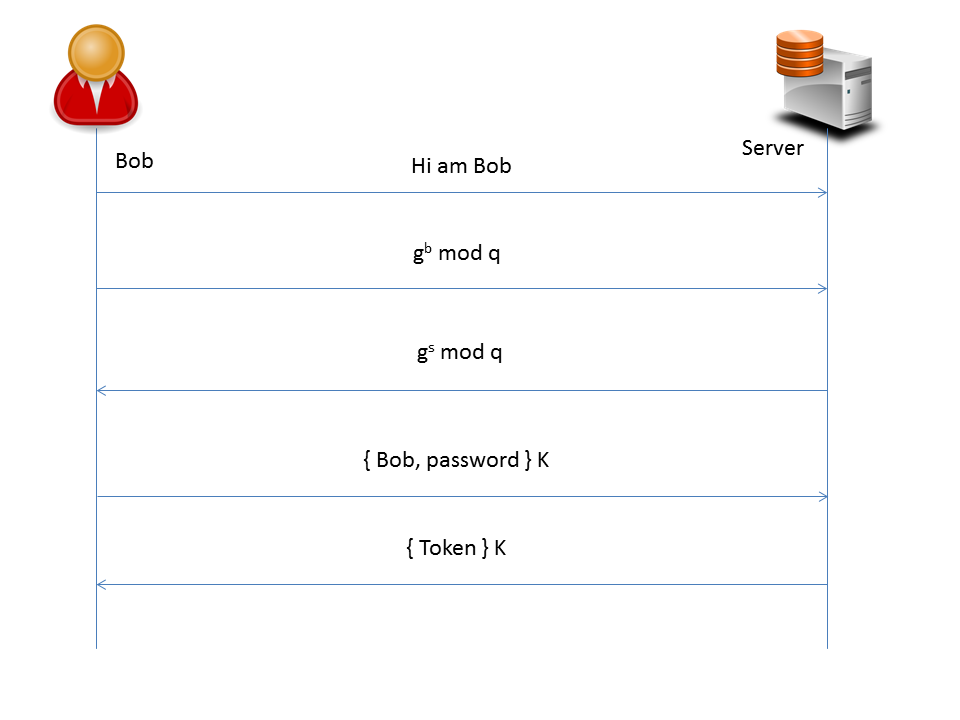
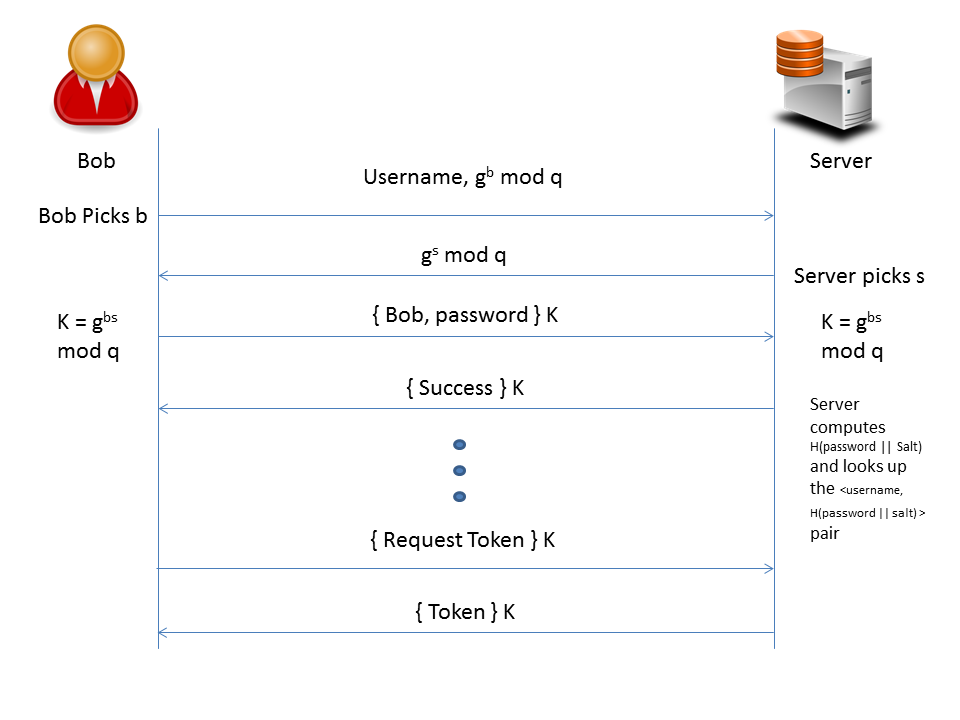
Rewrote threat 1

diff --git a/doc/phase3-writeup.htm b/doc/phase3-writeup.htm
@@ -50,112 +50,152 @@ proposed login method.</p>
 <!-- BEGIN CHANGES HERE -->
 <p>
   Threat 1 (T1) is the threat of an Unauthorized Token Issuance. This threat can 
-  be succinctly be described as the fact that user Alice cannot request (and then 
-  obtain) a token meant for user Bob. It is easy to imagine this scenario being 
-  exploited. Attacker Alice tells the Group server "Hi, I'm Bob." The group server 
-  happily responds with the Token of user Bob. Now when Alice makes a request to 
-  the file server she can access all the files that Bob is supposed to including 
+  be succinctly be described as user Alice requesting (and then 
+  obtaining) a token meant for user Bob. It is easy to imagine this scenario being 
+  exploited. Attacker Alice tells the Group server that her username is Bob. The 
+  group server happily responds with the Token of user Bob. Now when Alice makes a
+  request to the file server she can access all the files that Bob is supposed to 
+  including 
   ones that she is not supposed to access. In our current insecure implementation 
   a user can set their username to whatever they want and that is what is sent to the 
   group server. Exploiting this is as simple as typing a name in a box. </br>
-  <img src="images/FakeUser.png" alt="I am really User Alice" class="image"> 
+  <img src="images/FakeUser.png" title="I am really User Alice" class="image"> 
   </br>In this case 
-  Attacker Alice has entered User Bob's name in and will be requesting Bob's 
-  token instead of her own.
-  <br><br>
+  Attacker Alice has entered User Bob's name in the username field and will be 
+  requesting Bob's token instead of her own. In our implementation the request for 
+  a Token simply takes a user name and responds with that users Token. This means 
+  that Alice using Bob's name will give her Bob's Token.
+  <br>
   This threat is not a one time threat. The system must defend from attacker 
   Alice taking a token meant for Bob after Bob has authenticated with the server 
   the initial time. This is the simple scenario of Alice waiting for the actual 
   user Bob to request a token and then Alice could copy the token. This copy could 
   then be used on file servers to access Bob's files.
 </p>
-<p> We currently have two proposed solutions to solve this problem. The first is 
-  a password protocol and the second is a public key cryptography solution.
-</p>
-<h3>Solution One: A password protocol.</h3>
+
 <p>
-  Our first solution is use passwords to protect the system from Unauthorized 
-  Token Issuance. In this solution each user picks a password that must be 
-  provided to the GroupServer upon login to authenticate that they are the user 
-  they claim. The user and GroupServer will also exchange a shared key so that 
-  Tokens issued later can be encrypted. This encryption will protect the Tokens 
-  from being stolen later after the User Bob authenticates with the system. <br>
-  The protocol would look like so: <br>
-  <img src="images/password.png" class="image">
+  Our solution is use passwords to protect the system from Unauthorized 
+  Token Issuance. 
   <br>
-  This protocol uses Diffie-Hellman to create a shared secret key, K, that is 
-  computed by both Bob and the Server with the formula g<sup>bs</sup> mod q. b is 
-  chosen by Bob with a cryptographically secure random number generator and s is 
-  chosen by the server with a cryptographically secure random number generator too.
-  Once
-  this shared key is established the server still does not know if it is talking 
-  to Bob so it needs to authenticate that it is. This is done with a password. 
-  Using the shared key bob sends his username and password to the server. Once 
+  <!-- User Creation, Justify why ADMIN gives password to user, Describe the 
+    implementation of the newuser flag-->
+  In this solution an ADMIN picks a password that must be 
+  provided to the GroupServer upon user creation. This initial password will be 
+  given to the user by the ADMIN. 
+  The GroupServer will set a flag in the UserList that this user is new (a newuser 
+  flag). This 
+  will trigger a forced password change once the user logs on. 
+  <!-- Authentication Protocol 
+    Key Exchange
+    to Argue:
+      Diffie Hellman
+      Random number selection
+      Symmetric encryption to use AES
+  -->
+  <br>
+  Before the user actually authenticates with the server the two must set up secure
+  communication over an insecure channel. They do this using Diffie-Hellman to 
+  create a shared secret key, K that will be used for symmetric key cryptography.
+  This Diffie-Hellman protocol will use these values p = NUMBER and q = NUMBER.
+  The numbers b and s will be selected at random by Bob and the Server respectively 
+  using the java.security.SecureRandom library. The secret key K is computer with
+  K = g<sup>bs</sup> mod q. This symmetric key cryptography system would 
+  use AES with 128-bit keys. AES would be used as a block cypher in CBC mode. CBC 
+  is used because ECB is vulnerable to replay attacks.
+  This encryption will protect the Tokens from being stolen later after the User 
+  Bob authenticates with the system. In order to defend from replay attacks a new 
+  shared key K is created every time a user connects to the Group Server. 
+  <br>
+  <!--
+    Password Authentication
+    to Argue:
+      Salt generation
+      Hash Function
+      Hashed password || Salt storage
+  -->
+  Once this shared Key is established and therefore a secure communication channel 
+  is setup the server still needs to verify that the client it is talking too who 
+  is claiming to be Bob is really Bob. This is done with a password. Using the 
+  shared key Bob sends his username and password to the server. Once 
   the server receives the message and decrypts it with the key it will hash the
   password concatenated with a salt that is associated with the username. The 
-  server then compares this &lt;username, hash&gt; pair with its database. If the
-  entry exists then the server responds to Bob with his Token. This symmetric 
-  key cryptography system would use AES with 128-bit keys. It would be set to any 
-  mode besides ECB (which is vulnerable to replay attacks), we would use CBC. For 
-  Hashing the password we would use SHA-1 because MD-5 is weak to some attacks. 
-  The numbers b and s will be chosen with the java.security.SecureRandom library.
+  server then compares this &lt;username, hash&gt; pair with its database. Both 
+  the salt and the hash of the password concatenated with the salt will be stored 
+  in the User object associated with that user. The salt will be generated when 
+  the saved password is changed. The salt will be generated randomly with the 
+  java.security.SecureRandom library. The Hash will be computed using SHA-2 because
+  recently SHA-1 has been showing the same weakness that MD-5 did before it was 
+  broken. If the hash matches the saved hash then the server responds to Bob with 
+  his Token.
+  <br>The protocol would look like so: <br>
+  <img src="images/password.png" class="image">
+  <br>
+  When a user has a new user flag set then when the Server authenticates their 
+  password the server will also include a "Change Password" message. When this 
+  is received by the client the client will prompt the user to select a new 
+  password. Once this new password is chosen then it is encrypted and sent back 
+  to the server. The server decrypts this new password and will generate a new 
+  salt with the same secure random number generate as before. The Server 
+  concatenates the new password and the new salt and hashes it with SHA-2. Once 
+  this new hash is saved the newuser flag is unset and the server tells the client 
+  that the change was a success.
+  <br>The new user protocol would look like this</br>
+  <img src="images/newuser.png" class="image">  
 </p>
 <p>
+  <!-- Argument that this works
+    Need to argue for
+      Diffie-Hellman
+      Password
+      show it defending from replay attack
+      The new user flag is not a problem.
+  -->
+
   This protocol sufficiently stops attacks of unauthorized Token issuance. The 
-  user and the server use Diffie-Hellman to exchange secret keys. At this point 
-  the communication between the two cannot be observed by a third party. Once this 
-  secure communication channel has been set up the users password can be sent to 
-  the server. The server hashes this key and verifies that this user is the real 
-  user. Assuming that this secret is known only by the user then this is 
-  sufficient to prove that the user is authorized. The rest of the communication 
-  that will occur between the user and the server will be encrypted by the shared 
-  key K. Knowing K is proof that the user is the same user that authenticated 
-  previously. The user and server are the only ones that know this key K and 
-  therefore being able to encrypt and decrypt things with K means that the person 
-  knows K. The key exchange is secure because the user and the server 
-  generate a b and a s respectively. These numbers however are only transmitted 
-  in the form of g<sup>[b|s]</sup>mod q so an attacker who steals either or both 
-  of these then cannot recover g<sup>bs</sup> mod q (K). This means that K is a 
-  secret between the two parties.
-</p>
-<h3>Solution Two: A public key cryptography protocol.</h3>
-<p>
-  Our first solution is use public key cryptography to protect the system from Unauthorized Token Issuance. In this solution the user's public key is submitted
-  to the GroupServer upon the creation of the user account. The user and server 
-  create a shared secret K using a signed Diffie-Hellman protocol. This method 
-  creates a shared K and authenticates the user and server with each other. <br>
-  The protocol would look like so: <br>
-  <img src="images/publicauth.png" class="image">
-  <br> 
-  This protocol uses Diffie-Hellman to create a shared secret key, K, that is 
-  computed by both Bob and the Server with the formula g<sup>bs</sup> mod q. b is 
-  chosen by Bob with a cryptographically secure random number generator and s is 
-  chosen by the server with a cryptographically secure random number generator too.
-  Not only do these two messages create a shared key K they also authenticate the 
-  user and server to one another. The messages used in Diffie-Hellman will be 
-  signed with each participants private key K<sup>-1</sup>. The digital signatures 
-  will be done with 2048 bit key RSA because the NSA recently published about a 
-  break in 1024 as discussed in class. The symmetric key cryptography system 
-  would use AES with 128-bit keys. It would be set to any mode besides ECB 
-  (which is vulnerable to replay attacks), we would use CBC. The numbers b and s 
-  will be chosen with the java.security.SecureRandom library.
-</p>
-<p>
-  This protocol sufficiently stops attacks of unauthorized Token issuance. The 
-  user and the server use Diffie-Hellman to exchange secret keys. At this point 
-  the communication between the two cannot be observed by a third party. Assuming 
-  that each the user and the server are the only ones that know their own private 
-  keys then the ability to encrypt a message that can be decrypted with the senders 
-  public keys means that the sender is the real person. The rest of the communication 
-  that will occur between the user and the server will be encrypted by the shared 
-  key K. Knowing K if proof that the user is the same user that authenticated 
-  previously. The user and server are the only ones that know this key K and 
-  therefore being able to encrypt and decrypt things with K means that the person 
-  knows K. The key exchange is secure because the user and the server 
-  generate a b and a s respectively. These numbers however are only transmitted 
-  in the form of g<sup>[b|s]</sup>mod q so an attacker who steal either or both 
-  of these they cannot recover g<sup>bs</sup> mod q (K). This means that K is a 
-  secret between the two parties.
+  user and the server use Diffie-Hellman to exchange secret keys. The key exchange 
+  is secure because the user and the server generate a b and a s respectively. 
+  These numbers however are only transmitted in the form of g<sup>[b|s]</sup>mod q 
+  so an attacker who steals either or both of these then cannot recover 
+  g<sup>bs</sup> mod q (K). This means that K is a secret between the two parties.
+  At this point the communication between the two cannot be observed by a third 
+  party. 
+  <br>
+  Once this secure communication channel has been set up the users password can be 
+  sent to the server. This password system is sufficient to authenticate a user 
+  assuming that the user is the only person who knows their password. 
+  The server concatenates the password with the saved salt 
+  associated with the user. This result is then hashed using SHA-2. This hash is 
+  compared to the hash associated with the user. If the hash of the password plus 
+  salt matches the saved salt then the user is authenticated. Matching the hashes 
+  is sufficient to authenticate the user because SHA-2 is a cryptographically secure 
+  hash. This means that SHA-2 has second image resistance. This means that it is 
+  infeasible to find a second message y that hashes to the same value as the 
+  original value x. This means that if the hashes match the user must know the 
+  real password rather than generating a password that has a matching hash. Using 
+  a cryptographically secure hash also means that it has preimage resistance. This
+  means that if the Group server is ever compromised then it would be infeasible 
+  for attackers to recover the original passwords from the stolen hashes.  
+  <br>
+  Once established all communication that occurs between the user and the server 
+  will be encrypted by the shared key K. Knowing K is proof that the user is the 
+  same user that authenticated previously. The user and server are the only ones 
+  that know this key K and therefore being able to encrypt and decrypt things 
+  with K proves that user knows K. 
+  <br>
+  This system is safe from replay attacks. For example if an attacker steals the 
+  two messages that are stared. 
+  <br><img src="images/passwordreplay.png" class="image"><br>
+  Later the attacker sends these two messages to 
+  the server at a later time. This will not result in the attacker gaining access 
+  to the system. The server will choose a different value of s than it chose when 
+  the attacker recorded the messages. This means that the secret key K will be 
+  different than the K between Bob and the server and the server will not be able
+  to decrypt the message from the attacker because K is wrong.
+  <br>
+  In this scenario group servers are trusted which means that the newuser flag 
+  cannot be used to trigger a forced password reset by an attacker. Even if the 
+  newuser flag was somehow set it would not compromise the user account because 
+  the user needs to authenticate with the server before changing the password.
 </p>
 
 <!-- END CHANGES HERE -->
@@ -290,7 +330,45 @@ well.
 <br><br>
 Two factor Authentication?
 </p>
-
+<h3>Solution Two: A public key cryptography protocol.</h3>
+<p>
+  Our first solution is use public key cryptography to protect the system from Unauthorized Token Issuance. In this solution the user's public key is submitted
+  to the GroupServer upon the creation of the user account. The user and server 
+  create a shared secret K using a signed Diffie-Hellman protocol. This method 
+  creates a shared K and authenticates the user and server with each other. <br>
+  The protocol would look like so: <br>
+  <img src="images/publicauth.png" class="image">
+  <br> 
+  This protocol uses Diffie-Hellman to create a shared secret key, K, that is 
+  computed by both Bob and the Server with the formula g<sup>bs</sup> mod q. b is 
+  chosen by Bob with a cryptographically secure random number generator and s is 
+  chosen by the server with a cryptographically secure random number generator too.
+  Not only do these two messages create a shared key K they also authenticate the 
+  user and server to one another. The messages used in Diffie-Hellman will be 
+  signed with each participants private key K<sup>-1</sup>. The digital signatures 
+  will be done with 2048 bit key RSA because the NSA recently published about a 
+  break in 1024 as discussed in class. The symmetric key cryptography system 
+  would use AES with 128-bit keys. It would be set to any mode besides ECB 
+  (which is vulnerable to replay attacks), we would use CBC. The numbers b and s 
+  will be chosen with the java.security.SecureRandom library.
+</p>
+<p>
+  This protocol sufficiently stops attacks of unauthorized Token issuance. The 
+  user and the server use Diffie-Hellman to exchange secret keys. At this point 
+  the communication between the two cannot be observed by a third party. Assuming 
+  that each the user and the server are the only ones that know their own private 
+  keys then the ability to encrypt a message that can be decrypted with the senders 
+  public keys means that the sender is the real person. The rest of the communication 
+  that will occur between the user and the server will be encrypted by the shared 
+  key K. Knowing K if proof that the user is the same user that authenticated 
+  previously. The user and server are the only ones that know this key K and 
+  therefore being able to encrypt and decrypt things with K means that the person 
+  knows K. The key exchange is secure because the user and the server 
+  generate a b and a s respectively. These numbers however are only transmitted 
+  in the form of g<sup>[b|s]</sup>mod q so an attacker who steal either or both 
+  of these they cannot recover g<sup>bs</sup> mod q (K). This means that K is a 
+  secret between the two parties.
+</p>
 <!-- END CHANGES HERE -->
     </section>
   </body>
